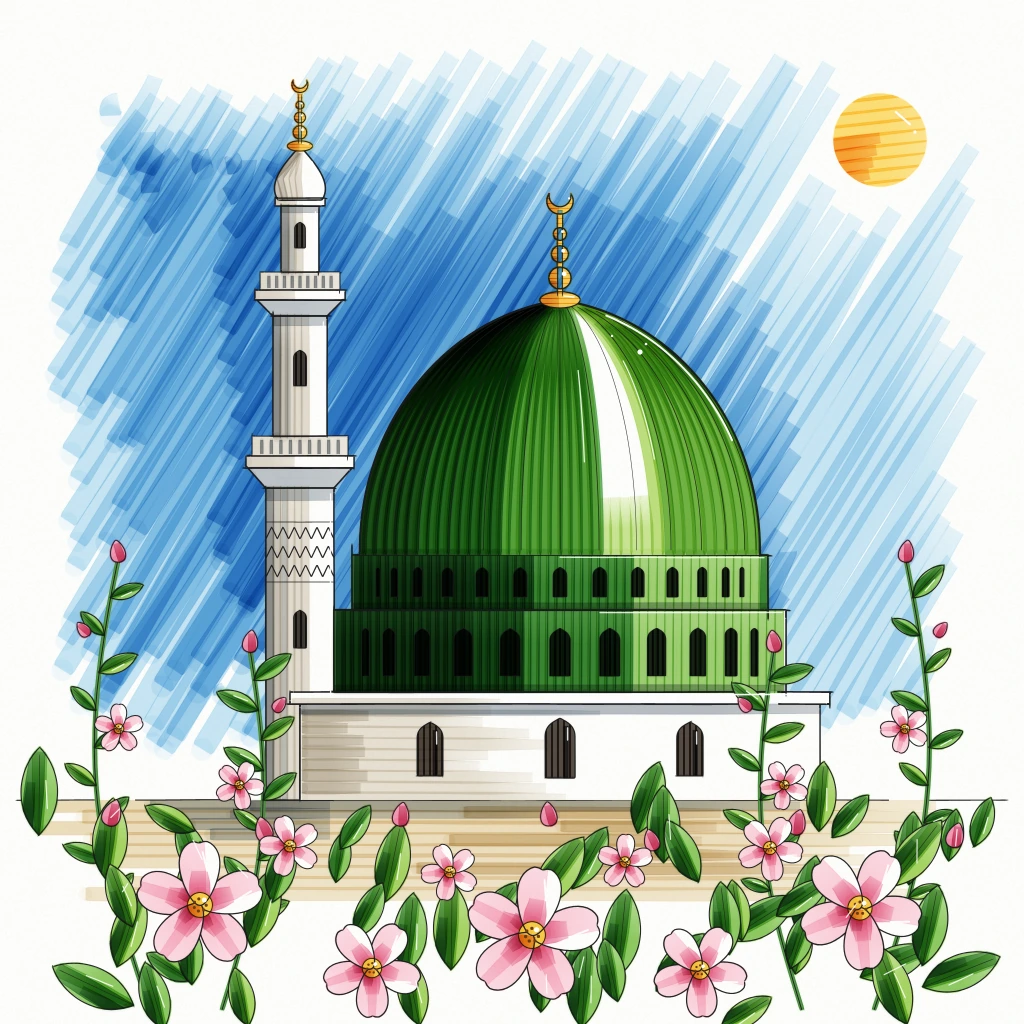
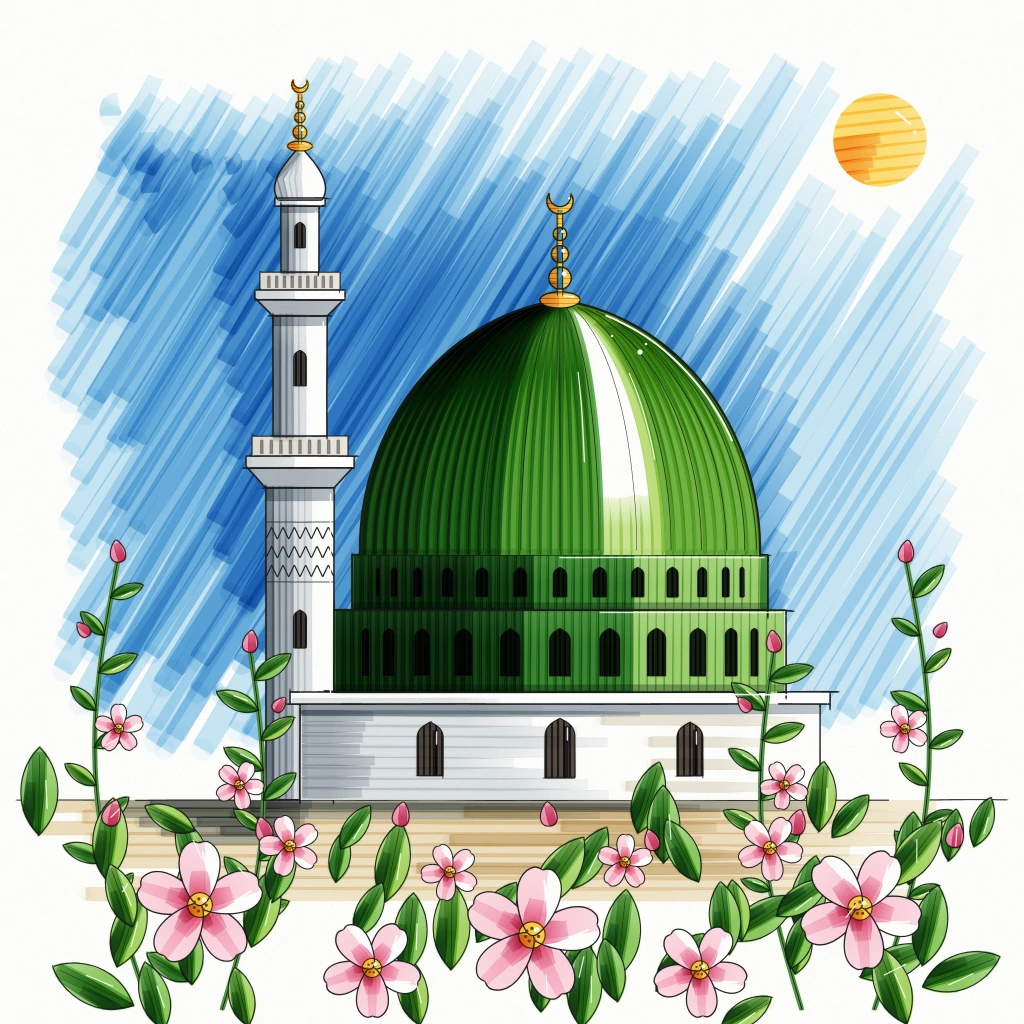
Atölye: ikinci tur stillerin ara kaydı
Claude-Session: https://claude.ai/code/session_01Q8CfoBGMPN7gfLWQYpMs1J

diff --git a/atolye/stiller/S-062-keceli-kalem/ornek.html b/atolye/stiller/S-062-keceli-kalem/ornek.html
@@ -584,9 +584,12 @@
       darbe(x, [[x1, y], [x2, y + (R() - 0.5) * 3]], { w: 14, renk: '#ecdcb8', alfa: 0.85 - k * 0.25, hizli: 0.7 });
     }
     for (let y = 812; y < 870; y += 14) darbe(x, [[380 + R() * 200, y], [700 + R() * 250, y + 1]], { w: 12, renk: '#dcc79e', alfa: 0.7, hizli: 0.8 });
-    for (let y = 804; y < 840; y += 10) darbe(x, [[150 + (y - 804) * 2, y], [330, y]], { w: 12, renk: '#b4bcc4', alfa: 0.8, hizli: 0.5 });
-    darbe(x, [[250, 806], [800, 806]], { w: 11, renk: '#b4bcc4', alfa: 0.85, hizli: 0.8, tit: 0.3 });
-    darbe(x, [[230, 814], [560, 815]], { w: 8, renk: '#b4bcc4', alfa: 0.6, hizli: 0.9, tit: 0.3 });
+    // yapının sola düşen gölgesi: soğuk gri (C3 + C5) üst üste, sert kenarlı
+    for (let y = 804; y < 846; y += 9) darbe(x, [[96 + (y - 804) * 2.4, y], [312 - (y - 804) * 0.4, y]], { w: 11, renk: '#b4bcc4', alfa: 0.85, hizli: 0.5 });
+    for (let y = 804; y < 834; y += 9) darbe(x, [[150 + (y - 804) * 2.6, y], [300, y]], { w: 10, renk: '#8e98a1', alfa: 0.75, hizli: 0.6 });
+    darbe(x, [[250, 806], [820, 806]], { w: 12, renk: '#b4bcc4', alfa: 0.9, hizli: 0.8, tit: 0.3 });
+    darbe(x, [[262, 806], [700, 807]], { w: 7, renk: '#8e98a1', alfa: 0.7, hizli: 0.9, tit: 0.3 });
+    darbe(x, [[230, 815], [600, 816]], { w: 8, renk: '#b4bcc4', alfa: 0.65, hizli: 0.9, tit: 0.3 });
   }, { beyaz: false, tasma: 0 });
 
   // --- minare: sol yarı sıcak gri, şerefe altları soğuk gri, sağ kenar beyaz
@@ -595,20 +598,18 @@
     for (const [ad, cx, Rr] of [['gövde-alt', 300, 34], ['gövde-orta', 300, 27], ['gövde-üst', 300, 19]]) {
       const p = mp(ad);
       const y1 = p.noktalar[0][1], y2 = p.noktalar[2][1];
-      for (let xx = cx - Rr + 4; xx < cx + Rr * 0.2; xx += 7) {
-        const u = (xx - cx) / Rr;
-        darbe(x, [[xx, y2 + 2], [xx, y1 - 2]], { w: 9, renk: u < -0.55 ? '#c9c2b6' : '#e3ddd2', alfa: 0.85, hizli: 0.3, tit: 0.3 });
-      }
-      darbe(x, [[cx - Rr + 4, y2], [cx - Rr + 4, y1]], { w: 8, renk: '#aab3ba', alfa: 0.8, hizli: 0.2, tit: 0.3 });
-      darbe(x, [[cx - Rr * 0.45, y2], [cx - Rr * 0.45, y1]], { w: 6, renk: '#c4cbd0', alfa: 0.6, hizli: 0.4, tit: 0.3 });
+      // soğuk gri katmanlar: C1 geniş, C3 gölge yarısı, C5 sol kenar
+      for (let xx = cx - Rr + 3; xx < cx + Rr * 0.3; xx += 6.5) darbe(x, [[xx, y2 + 2], [xx, y1 - 2]], { w: 8.5, renk: '#dfe3e7', alfa: 0.85, hizli: 0.3, tit: 0.3 });
+      for (let xx = cx - Rr + 3; xx < cx - Rr * 0.25; xx += 6.5) darbe(x, [[xx + 1, y2 + 2], [xx + 1, y1 - 2]], { w: 8.5, renk: '#bcc4cb', alfa: 0.8, hizli: 0.35, tit: 0.3 });
+      darbe(x, [[cx - Rr + 4, y2], [cx - Rr + 4, y1]], { w: Rr > 25 ? 9 : 7, renk: '#97a1aa', alfa: 0.8, hizli: 0.2, tit: 0.3 });
     }
     for (const [y1, y2, x1, x2] of [[488, 500, 266, 334], [316, 325, 273, 327], [206, 212, 281, 319], [468, 488, 248, 352], [300, 316, 257, 343]]) {
-      darbe(x, [[x1 - 2, (y1 + y2) / 2], [x2 + 2, (y1 + y2) / 2]], { w: y2 - y1 + 2, renk: '#b9c0c6', alfa: 0.8, hizli: 0.2, tit: 0.2 });
+      darbe(x, [[x1 - 2, (y1 + y2) / 2], [x2 + 2, (y1 + y2) / 2]], { w: y2 - y1 + 2, renk: '#a9b2ba', alfa: 0.85, hizli: 0.2, tit: 0.2 });
     }
     for (const ad of ['şerefe-1', 'şerefe-2', 'bilezik']) {
       const p = mp(ad);
       const y1 = p.noktalar[0][1], y2 = p.noktalar[2][1], x1 = p.noktalar[0][0], x2 = p.noktalar[1][0];
-      darbe(x, [[x1, (y1 + y2) / 2], [x1 + (x2 - x1) * 0.45, (y1 + y2) / 2]], { w: y2 - y1, renk: '#ddd6ca', alfa: 0.85, hizli: 0.5, tit: 0.2 });
+      darbe(x, [[x1, (y1 + y2) / 2], [x1 + (x2 - x1) * 0.45, (y1 + y2) / 2]], { w: y2 - y1, renk: '#d3d9de', alfa: 0.85, hizli: 0.5, tit: 0.2 });
     }
     for (const ad of ['korkuluk-1', 'korkuluk-2']) {
       const p = mp(ad);
@@ -621,7 +622,7 @@
     // topuz: kıvrık darbeler
     for (let k = 0; k < 5; k++) {
       const xx = 280 + k * 5;
-      darbe(x, [[xx, 199], [xx - 6 + k, 178], [298 + k * 0.5, 152]], { w: 7, renk: k < 2 ? '#c9c2b6' : '#e3ddd2', alfa: 0.85, hizli: 0.6, tit: 0.2 });
+      darbe(x, [[xx, 199], [xx - 6 + k, 178], [298 + k * 0.5, 152]], { w: 7, renk: k < 2 ? '#b4bcc4' : '#dfe3e7', alfa: 0.85, hizli: 0.6, tit: 0.2 });
     }
     // pencereler: koyu sıcak gri
     for (const p of SAHNE.minarePencereleri) {
@@ -635,14 +636,16 @@
   // --- kaide ve korniş: beyaz taş, solda sıcak gri yatay darbeler, korniş altında soğuk gri gölge
   const kaideYol = birlesik([Y.kaide, Y.kornis]);
   bolge(kaideYol, (x) => {
-    for (let y = 710; y < 800; y += 11) {
-      const x2 = 470 + 160 * NF(y / 20, 4) - (y - 710) * 0.3;
-      darbe(x, [[302, y], [x2, y + 1]], { w: 13, renk: '#e8e2d6', alfa: 0.85, hizli: 0.85 });
+    // taş: C1 yatay hızlı darbeler (uçları açılıyor), solda sıcak gri dokunuş, sol uçta C3
+    for (let y = 710; y < 800; y += 10.5) {
+      const x2 = 520 + 180 * NF(y / 20, 4) - (y - 710) * 0.5;
+      darbe(x, [[302, y], [x2, y + 1]], { w: 12.5, renk: '#e1e5e8', alfa: 0.9, hizli: 0.85 });
     }
-    for (let y = 716; y < 800; y += 12) darbe(x, [[302, y], [340 + R() * 30, y]], { w: 12, renk: '#d4cdc0', alfa: 0.8, hizli: 0.5 });
-    darbe(x, [[300, 709], [822, 709]], { w: 11, renk: '#b6bdc4', alfa: 0.85, hizli: 0.4, tit: 0.2 });
-    darbe(x, [[300, 712], [600, 713]], { w: 6, renk: '#b6bdc4', alfa: 0.6, hizli: 0.8, tit: 0.2 });
-    darbe(x, [[292, 701], [500, 701]], { w: 6, renk: '#e3ddd2', alfa: 0.8, hizli: 0.9, tit: 0.2 });
+    for (let y = 716; y < 800; y += 11) darbe(x, [[302, y], [356 + R() * 40, y]], { w: 11.5, renk: '#bcc4cb', alfa: 0.8, hizli: 0.6 });
+    for (let y = 720; y < 800; y += 22) darbe(x, [[600 + R() * 60, y], [760 + R() * 50, y + 1]], { w: 11, renk: '#e6dfd2', alfa: 0.7, hizli: 0.85 });
+    darbe(x, [[300, 709], [822, 709]], { w: 11, renk: '#a9b2ba', alfa: 0.88, hizli: 0.4, tit: 0.2 });
+    darbe(x, [[300, 713], [640, 714]], { w: 6, renk: '#97a1aa', alfa: 0.6, hizli: 0.8, tit: 0.2 });
+    darbe(x, [[292, 701], [500, 701]], { w: 6, renk: '#dfe3e7', alfa: 0.8, hizli: 0.9, tit: 0.2 });
     for (const p of K.pencereler) {
       x.save();
       x.clip(new Path2D(SAHNE.kemerYolu(p.x, p.y, p.w, p.h)));

diff --git a/atolye/stiller/S-079-yirtik-kagit-kolaj/ornek.html b/atolye/stiller/S-079-yirtik-kagit-kolaj/ornek.html
@@ -308,8 +308,8 @@
       ctx.save(); ctx.filter = 'blur(2.6px)';
       ctx.translate(-1.6, 2); ctx.lineWidth = 5; ctx.strokeStyle = 'rgba(40,25,10,0.1)'; ctx.stroke(p);
       ctx.restore();
-      ctx.save(); ctx.filter = 'blur(0.8px)';
-      ctx.lineWidth = 1.6; ctx.strokeStyle = 'rgba(255,255,255,0.2)'; ctx.stroke(p);
+      ctx.save(); ctx.filter = 'blur(1.2px)';
+      ctx.lineWidth = 2; ctx.strokeStyle = 'rgba(255,255,255,0.13)'; ctx.stroke(p);
       ctx.restore();
     }
     if (o.ek) o.ek(ctx);
